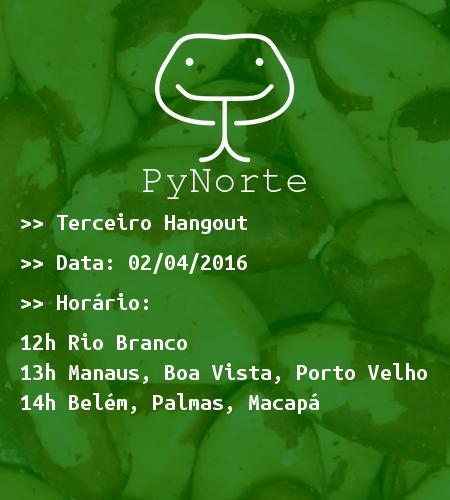
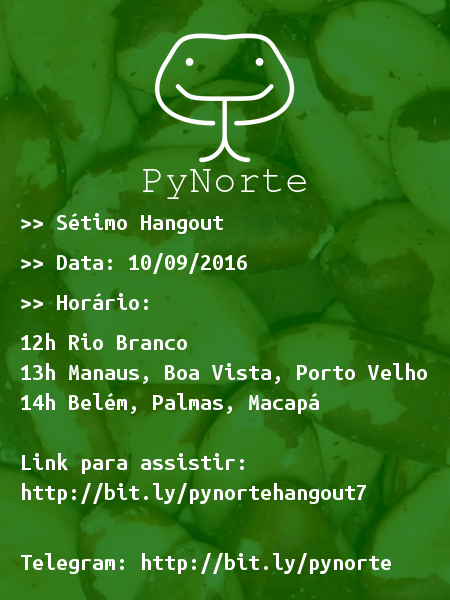
Sétimo Hangout - Imagem maior para conter os links de participacao

diff --git a/aviso.py b/aviso.py
@@ -16,7 +16,7 @@ castanhas = Image.open("fundo.jpg")
 logo = Image.open("logo.png")
 
 LOGO_PEQUENO = (150, 150)
-AVISO_TAMANHO = (450, 500)
+AVISO_TAMANHO = (450, 600)
 # Parte a retirar da imagem de fundo (castanhas)
 TAMANHO_CROP = AVISO_TAMANHO
 POSICAO_DO_CROP = (100, 100)
@@ -31,7 +31,7 @@ bruxelas = pytz.timezone("Europe/Brussels")
 manaus = pytz.timezone("America/Manaus")
 belem = pytz.timezone("America/Belem")
 rio_branco = pytz.timezone("America/Rio_Branco")
-hangout = bruxelas.localize(datetime.datetime(day=2, month=4, year=2016,
+hangout = bruxelas.localize(datetime.datetime(day=10, month=9, year=2016,
                                               hour=19, minute=0))
 
 # Posicoes relativas - calculadas
@@ -65,7 +65,7 @@ fGrande = ImageFont.truetype(FONTE_LOGO, TAMANHO_GRANDE)
 fPequena = ImageFont.truetype(FONTE_TEXTO, TAMANHO_PEQUENO)
 
 escreve_centralizado("PyNorte", AVISO_TAMANHO[0], 160, lapis, fGrande)
-lapis.text((20, 210), ">> Terceiro Hangout", font=fPequena, fill=COR_DO_TEXTO)
+lapis.text((20, 210), ">> Sétimo Hangout", font=fPequena, fill=COR_DO_TEXTO)
 lapis.text((20, 250), ">> Data: {0.day:02d}/{0.month:02d}/{0.year}".format(
            hangout.astimezone(manaus)),
            font=fPequena, fill=COR_DO_TEXTO)
@@ -76,6 +76,11 @@ lapis.text((20, 330), "{0.hour:02d}h Rio Branco".format(
 lapis.text((20, 360), "{0.hour:02d}h Manaus, Boa Vista, Porto Velho".format(hangout.astimezone(manaus)),
            font=fPequena, fill=COR_DO_TEXTO)
 lapis.text((20, 390), "{0.hour:02d}h Belém, Palmas, Macapá".format(hangout.astimezone(belem)),
+           font=fPequena, fill=COR_DO_TEXTO)
+
+lapis.text((20, 450), "Link para assistir:", font=fPequena, fill=COR_DO_TEXTO)
+lapis.text((20, 480), "http://bit.ly/pynortehangout7", font=fPequena, fill=COR_DO_TEXTO)
+lapis.text((20, 550), "Telegram: {}".format("http://bit.ly/pynorte"),
            font=fPequena, fill=COR_DO_TEXTO)
 
 del lapis
